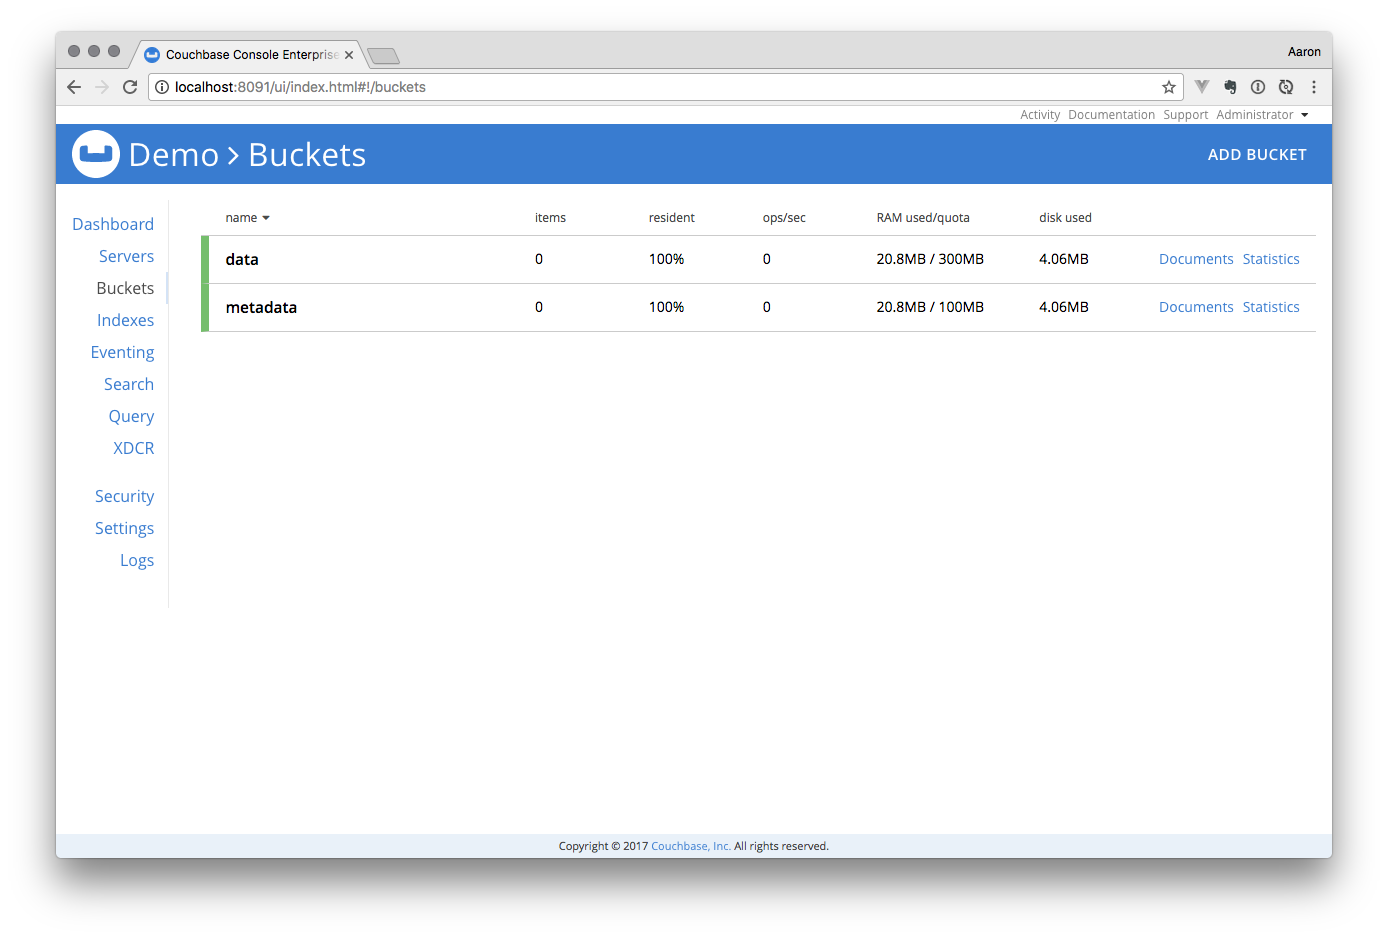
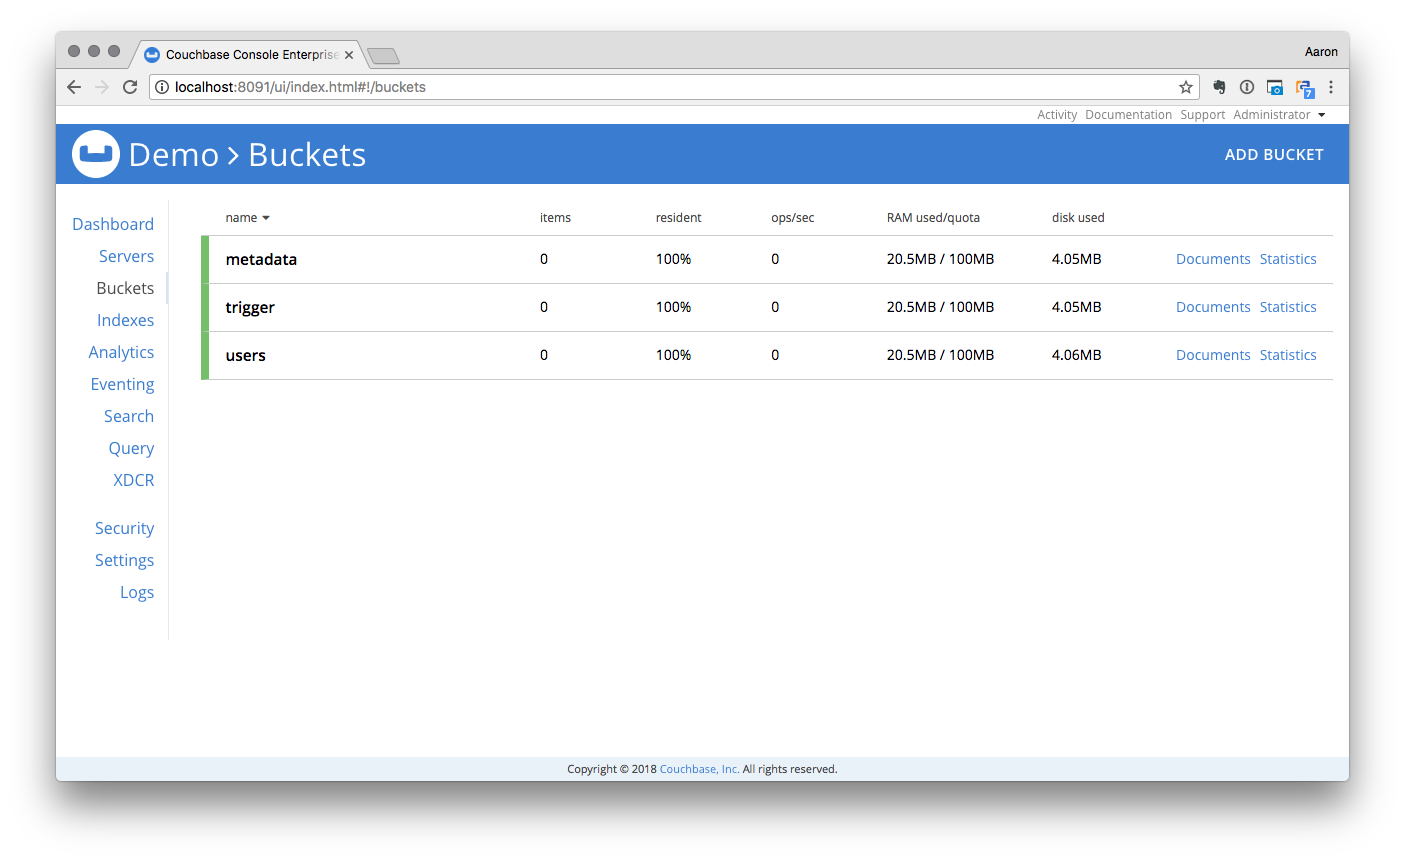
Updates

diff --git a/app/load.js b/app/load.js
@@ -2,14 +2,14 @@ const couchbase = require('couchbase')
 const cluster = new couchbase.Cluster('couchbase://eventing-couchbase')
 cluster.authenticate('Administrator', 'password')
 
-const bucket = cluster.openBucket('data')
+const bucket = cluster.openBucket('trigger')
 
 const users = 1000
 
 for (let i = 1; i <= users; i++) {
-  bucket.upsert(`user::${i}::trigger`, null, { expiry: i * 3 }, (err) => {
+  bucket.upsert(`user::${i}::trigger`, null, { expiry: i * 2 }, (err) => {
     if (err) {
-      throw e rr
+      throw err
     }
     if (i === users) {
       process.exit(0)

diff --git a/README.md b/README.md
@@ -60,13 +60,13 @@ docker exec eventing-couchbase \
 	--server localhost \
 	--username Administrator \
 	--password password \
-	--bucket data \
+	--bucket users \
 	--seed demo \
 	--count 1000 \
 	/usr/data/models/users.yaml
 ```
 
-This will load the `data` bucket with `1,000` user documents documents. 
+This will load the `users` bucket with `1,000` user documents documents. 
 
 For reference the documents are modeled as follows: 
 
@@ -84,23 +84,13 @@ For reference the documents are modeled as follows:
 
 ## Eventing Function
 
-Now we need to define an eventing function.  That will fire when documents expire, we will create the expiry documents in the next section. 
+Now we need to define an eventing function that will fire when documents expire, we will create the expiry documents in the next section.  We will load documents into the `trigger` bucket, and as they expire we'll retrieve the corresponding document from the `users` bucket and archive it. 
 
 From the Admin Console, click on "Eventing"
 
-Click "Add" and fill out the following and then click "Continue"
+Click "Add" and fill out the following and then click "Next: Add Code"
 
-```
-Source bucket: data
-Metadata bucket: metadata
-Name: func_archive
-Description:
-	This uses the OnDelete handler to archive expired documents
-RBAC username: Administrator
-RBAC password: password
-```
-
-Click "Continue"
+![](assets/eventing-function.png)
 
 This will deploy a shell of our function that looks similar to:
 
@@ -117,25 +107,19 @@ function OnDelete(meta) {
     try {
         if (meta.id.indexOf('::trigger') !== -1) {
             var id = meta.id.replace(/::trigger$/, '')
-            var query = SELECT d.* FROM `data` AS d USE KEYS [ :id ];
-            var doc = query.execQuery()[0];
+            var doc = src[id];
             // call the external api if there's a document
             if (doc) {
-                var http = SELECT CURL(
-                    "http://eventing-nodejs:8080/archive/" || :id,
-                    {
-                        "request":"POST", 
-                        "header": "Content-Type: application/json",
-                        "data": :doc
-                    });
-                http.execQuery();
+                curl("http://eventing-nodejs:8080/archive/" + id, {
+                    "method":"POST", 
+                    "data": doc 
+                });
                 // delete it from the src bucket
-                var del = DELETE FROM `data` USE KEYS [ :id ];
-                del.execQuery();
+               delete src[id];
             }
         }
     } catch (err) {
-        log('Error', err); 
+        log('Error', err);
     }
 }
 ```
